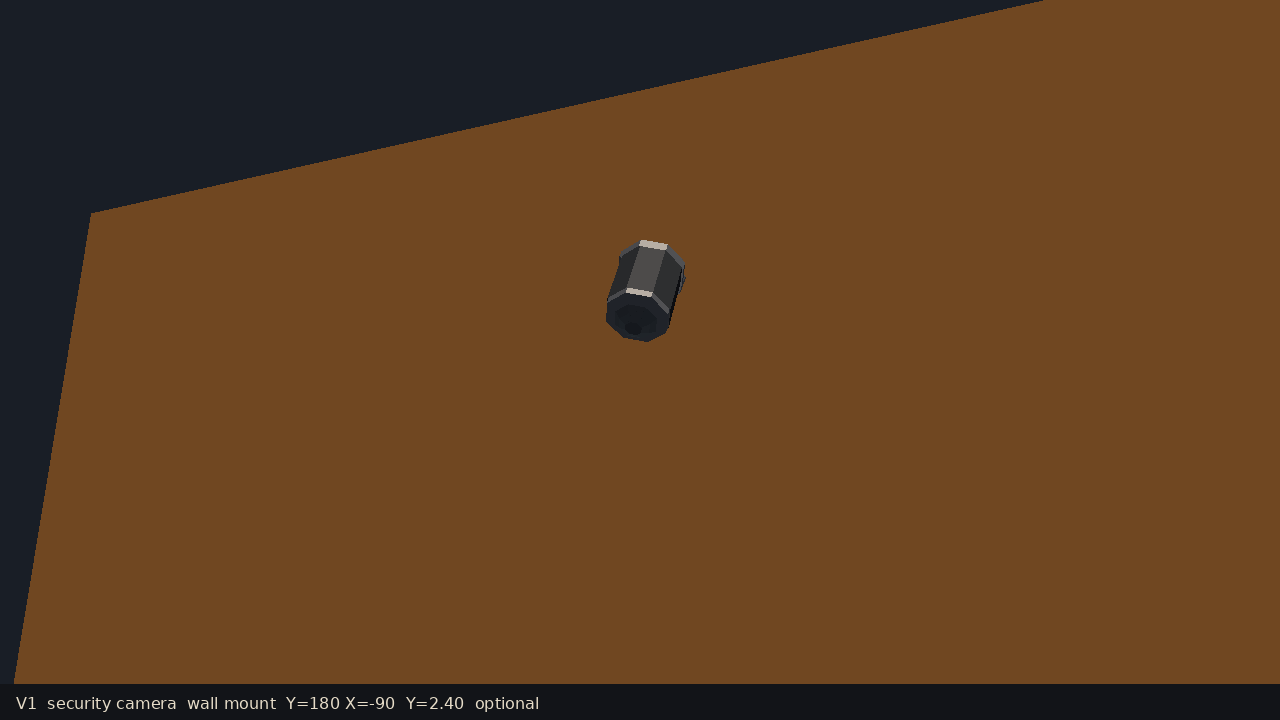
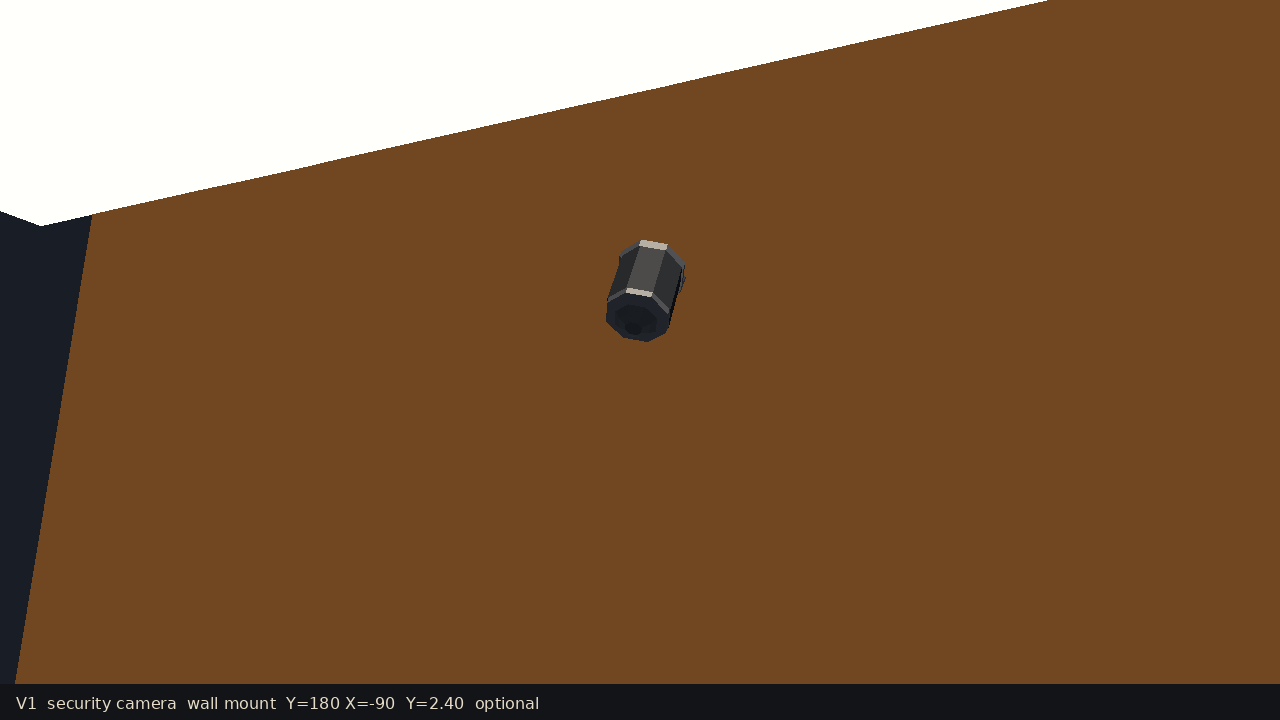
art(v1): subdivide camera QA stills so ceiling reads
Split large studio planes so approach/interact keep the cream ceiling
and oak scale mass in frame instead of discarding whole quads.

Changed region(s): [[0.0, 0.0, 0.8125, 0.3361]]

diff --git a/tools/art/render_security_camera_qa_shots.py b/tools/art/render_security_camera_qa_shots.py
@@ -17,6 +17,7 @@ sys.path.insert(0, str(Path(__file__).resolve().parent))
 
 from pbr_glb import LoadedTri, load_glb_tris, xform_tris  # noqa: E402
 from render_j2_qa_shots import add_back_wall, add_ground, rasterize  # noqa: E402
+from render_large_shell_qa_shots import subdivide  # noqa: E402
 
 FIXTURES = ROOT / "assets" / "props" / "shop" / "fixtures"
 QA = ROOT / "docs" / "art" / "qa-shots"
@@ -146,10 +147,11 @@ def main() -> None:
     cam_pos = (4.50, 2.80, -4.20)
     scene: list[LoadedTri] = []
     add_ground(scene, 8.0)
-    add_back_wall(scene, z=0.55, half=8.0, h=2.82)
+    add_back_wall(scene, z=-7.15, half=8.0, h=2.82)
     add_ceiling(scene, y=2.80, x0=1.4, x1=8.2, z0=-7.4, z1=0.15)
     add_oak_case(scene, (4.50, 0.0, -5.55))
     scene.extend(xform_tris(cam, cam_pos, yaw_deg=0.0))
+    scene = subdivide(scene, max_edge=1.15)
 
     shots = (
         (
@@ -179,6 +181,7 @@ def main() -> None:
     add_wood_wall(wall, z=0.0, x0=-1.6, x1=1.6, y0=0.0, y1=2.80)
     add_ceiling(wall, y=2.80, x0=-1.8, x1=1.8, z0=0.0, z1=2.4)
     wall.extend(xform_yaw_pitch(cam, (0.0, 2.40, 0.0), yaw_deg=180.0, pitch_deg=-90.0))
+    wall = subdivide(wall, max_edge=1.15)
     img = rasterize(
         wall,
         (0.55, 1.85, 1.45),
